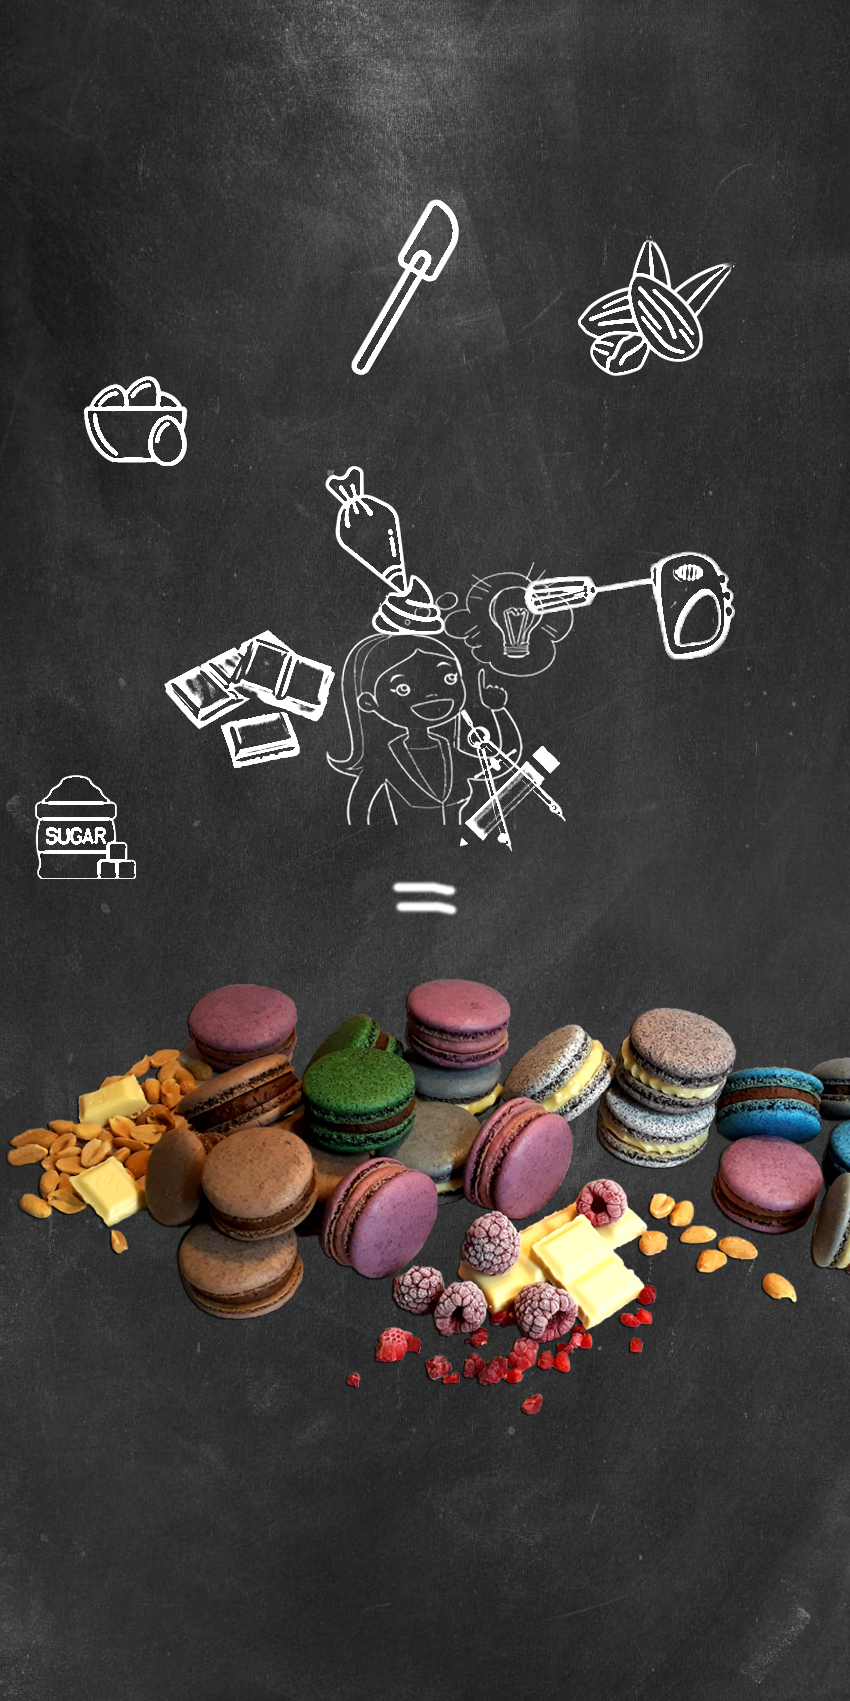
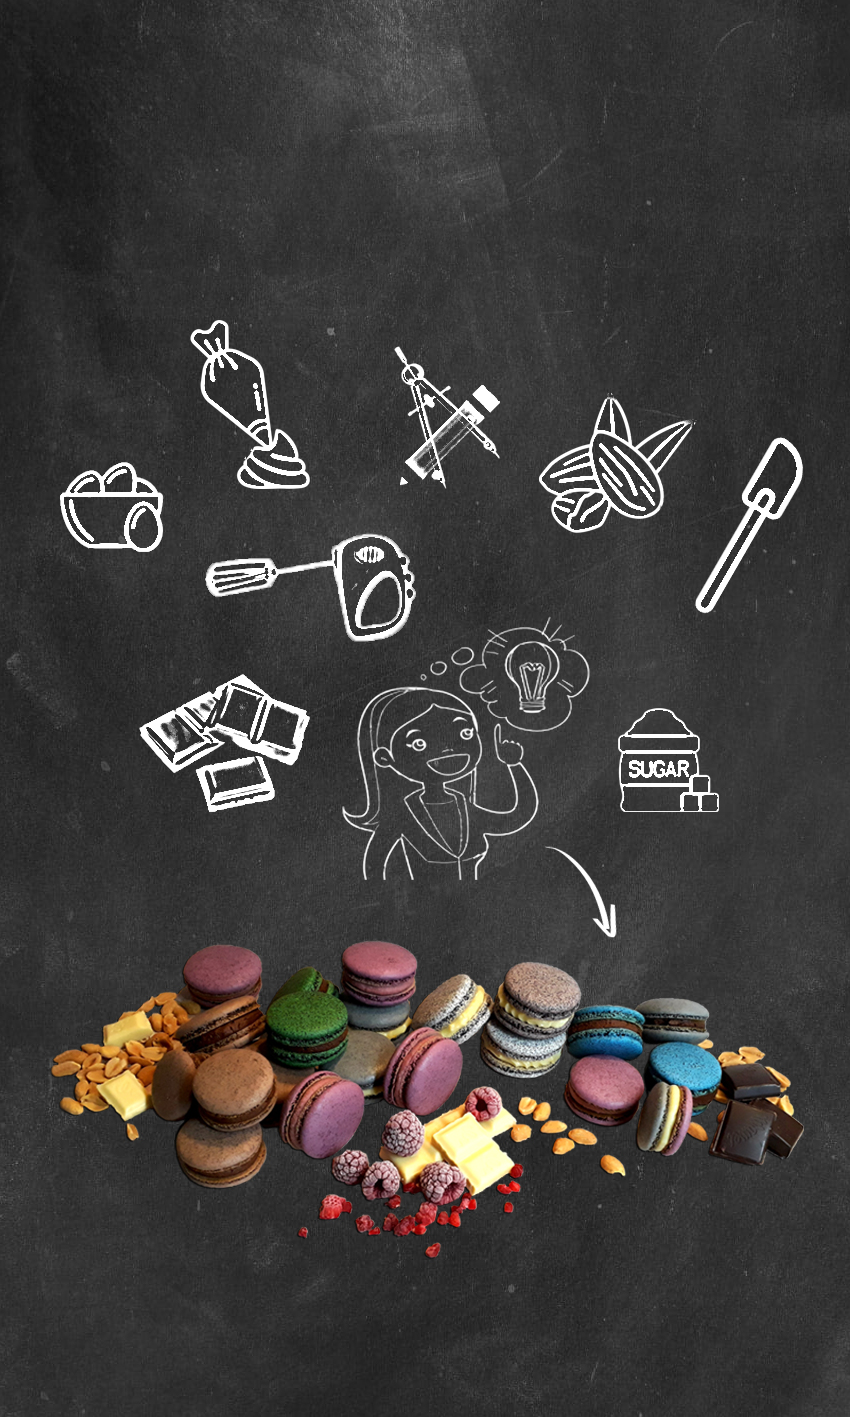
slider

diff --git a/src/Components/ParallaxIntroductorySection/ParalaxSection.js b/src/Components/ParallaxIntroductorySection/ParalaxSection.js
@@ -3,8 +3,10 @@ import classes from "./ParalaxSection.module.css";
 import image1 from "../../Assets/CakesPicture/HarryPotter.png";
 import image2 from "../../Assets/CakesPicture/Macaron.png";
 import proba3 from "../../Assets/CakesPicture/proba3.jpg";
-import chalkboardNew from "../../Assets/CakesPicture/chalkboardNew.jpg";
+import desktopSlider from "../../Assets/CakesPicture/desktopSlider.jpg";
+import desktopSlider2 from "../../Assets/CakesPicture/desktopSlider2.jpg";
 import mobileSlider from "../../Assets/CakesPicture/mobileSlider.jpg";
+import mobileSlider2 from "../../Assets/CakesPicture/mobileSlider2.jpg";
 import image3 from "../../Assets/CakesPicture/Málna, mogyoró mousse.jpg";
 import fruitCake from "../../Assets/CakesPicture/viragLada.png";
 import wordCloud from "../../Assets/CakesPicture/wordCloud.png";
@@ -30,8 +32,8 @@ function ParalaxSection() {
 
   const images = [
     mobileSlider,
-    mobileSlider,
-    mobileSlider,
+    mobileSlider2,
+    desktopSlider2,
   ];
 
   return (

diff --git a/src/Components/Slider/Slider.js b/src/Components/Slider/Slider.js
@@ -10,7 +10,7 @@ const Slider = ({ images }) => {
   useEffect(() => {
     const timer = setInterval(() => {
       setCurrentSlide((prevSlide) => (prevSlide + 1) % images.length);
-    }, 116000); // 6 másodpercenként vált
+    }, 111116000); // 6 másodpercenként vált
 
     return () => clearInterval(timer);
   }, [images.length]);

diff --git a/src/Components/Slider/Slider.module.css b/src/Components/Slider/Slider.module.css
@@ -116,4 +116,10 @@
     width: 10px;
     height: 10px;
   }
+  .sliderContainer {
+    position: relative;
+    width: 100%;
+    height: 70vh;
+    overflow: hidden;
+  }
 } 
